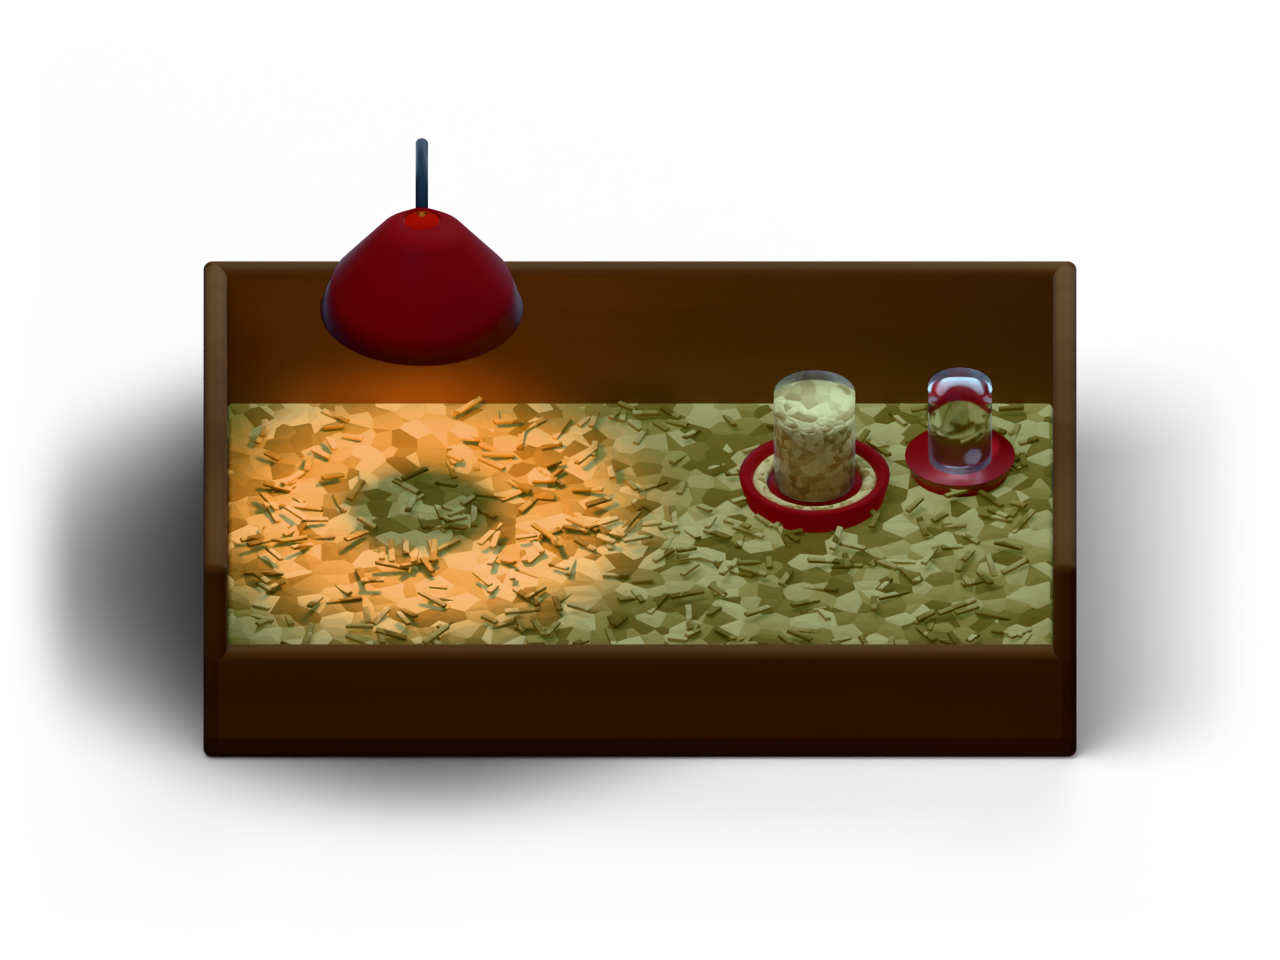
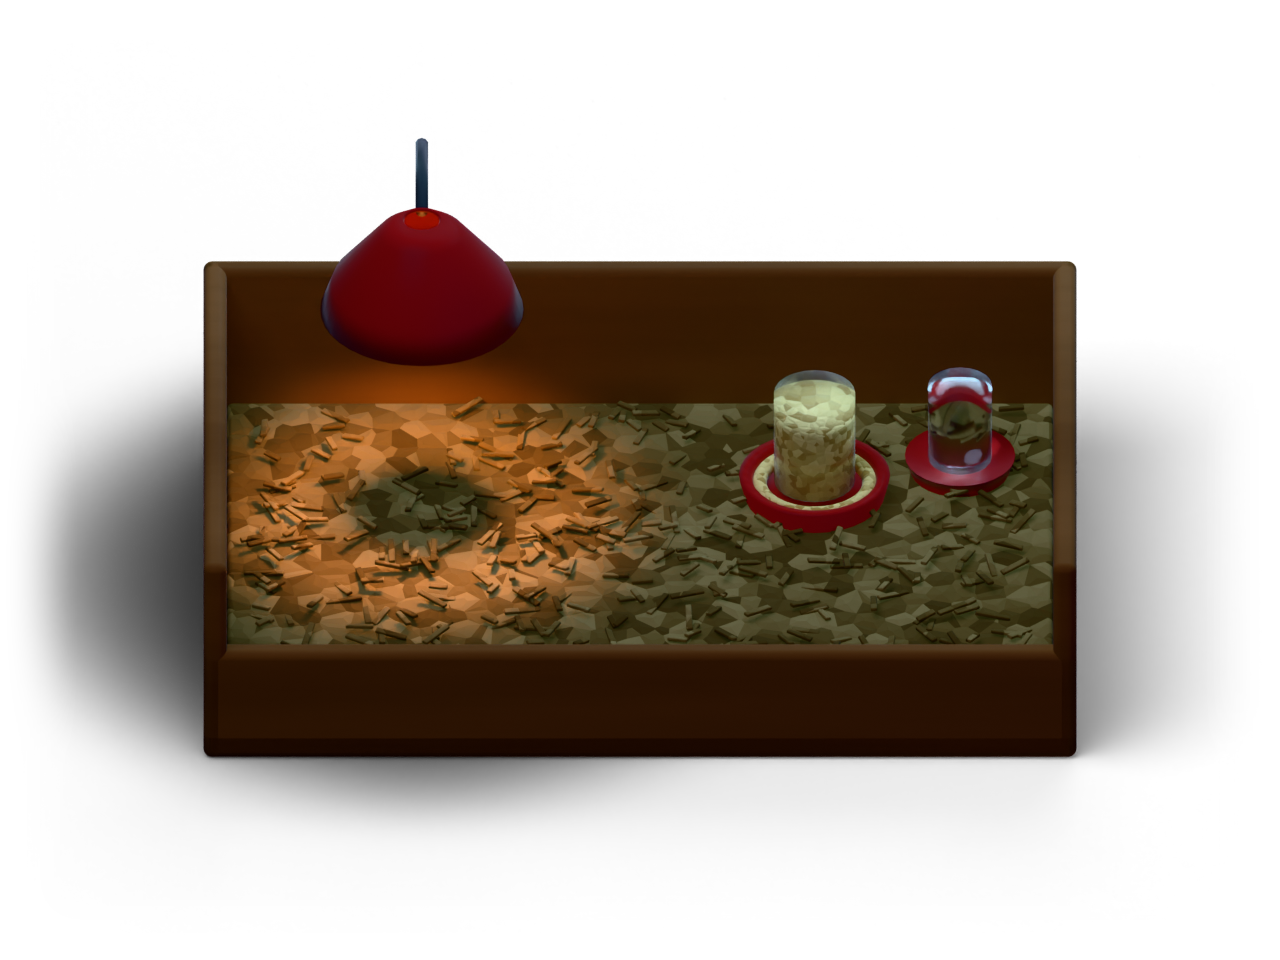
Step 5: the chick reads on its bedding, shadows under the new pets, the picker holds still
- The brooder's bedding is tan wood shavings, not the nest's golden straw
  the chick vanished into; the chick is a deeper yellow.
- A soft contact shadow under each Step 5 pet (ambient.shadow).
- The jar no longer mirrors a low sun across the frog: its day lights are
  as authored, and see-through layers crossfade by plain weight.
- The new-pet picker's line sits under its buttons with two lines' room
  (a line that grew above them moved them from under the pointer), opens
  over the memorial card, and is a click region of its own.
- Browser test for Step 5; the Phase 0 walk picks a fish from the picker.

Changed region(s): [[0.1562, 0.4062, 0.8438, 0.6875]]

diff --git a/src/ui/petPicker.ts b/src/ui/petPicker.ts
@@ -7,16 +7,22 @@
 //
 // Choosing a different species makes main.ts reload the app to mount the other habitat.
 
-import type { Species } from '../sim/types';
+import type { Rect, Species } from '../sim/types';
 import { implementedSpecies } from '../species';
 import type { UiDeps } from './types';
-import { button, centerIn, el, stopDrag } from './dom';
+import { button, centerIn, el, relRect, stopDrag } from './dom';
 import { CARD_MAX_WIDTH, CARD_MIN_WIDTH } from './feederDialog';
 
 export interface PetPickerHandle {
   open(): void;
   close(): void;
   isOpen(): boolean;
+  /**
+   * The card's rect while it is open (window-local CSS px), for the click-through window's hit
+   * regions. Unlike the feeder dialog it can be taller than a small habitat, and its Cancel is at
+   * the bottom.
+   */
+  getRects(): Rect[];
   destroy(): void;
 }
 
@@ -43,7 +49,9 @@ export function mountPetPicker(root: HTMLElement, deps: UiDeps): PetPickerHandle
   stopDrag(card);
 
   const title = el('h2', '', PICKER_TITLE);
-  const hint = el('div', 'line muted');
+  // Under the buttons, with room for two lines kept whatever it says: it changes as you point at a
+  // choice, and a line that grew above the buttons moved them out from under the pointer.
+  const hint = el('div', 'line muted hint');
   const choices = el('div', 'row');
   let open = false;
 
@@ -71,7 +79,7 @@ export function mountPetPicker(root: HTMLElement, deps: UiDeps): PetPickerHandle
 
   const actionsRow = el('div', 'row');
   actionsRow.append(button('CANCEL', () => close(), 'close'));
-  card.append(title, hint, choices, actionsRow);
+  card.append(title, choices, hint, actionsRow);
   root.append(card);
 
   function layout(): void {
@@ -86,18 +94,21 @@ export function mountPetPicker(root: HTMLElement, deps: UiDeps): PetPickerHandle
     restHint();
     card.hidden = false;
     layout();
+    deps.requestHitRegions();
   }
 
   function close(): void {
     if (!open) return;
     open = false;
     card.hidden = true;
+    deps.requestHitRegions();
   }
 
   return {
     open: openDialog,
     close,
     isOpen: () => open,
+    getRects: () => (open ? [relRect(card, root)] : []),
     destroy() {
       card.remove();
     },

diff --git a/src/render/ambient.ts b/src/render/ambient.ts
@@ -321,6 +321,8 @@ interface Bit {
 }
 
 const MOTES = 26;
+/** How dark the contact shadow under a sprite pet is at its middle, by day. */
+const PET_SHADOW = 0.34;
 const DRINK_BUBBLE_EVERY_S = 1.3;
 
 export function createAmbient(spec: AmbientSpec, textures: ReadonlyMap<string, Texture>, rng: () => number): Ambient {
@@ -419,6 +421,16 @@ export function createAmbient(spec: AmbientSpec, textures: ReadonlyMap<string, T
     sprite.alpha = 0;
     back.addChild(sprite);
     door = { sprite, t: 0 };
+  }
+
+  // -- Step 5: the pet's contact shadow
+  let petShadow: Sprite | null = null;
+  if (spec.shadow) {
+    petShadow = new Sprite({ texture: shadeTex, label: 'ambient:pet-shadow' });
+    petShadow.anchor.set(0.5);
+    petShadow.scale.set(spec.shadow.w / (8 * FX_SS), spec.shadow.h / (8 * FX_SS));
+    petShadow.alpha = 0;
+    back.addChild(petShadow);
   }
 
   // -- Step 5: the heat lamp's glow, over everything under it
@@ -593,6 +605,13 @@ export function createAmbient(spec: AmbientSpec, textures: ReadonlyMap<string, T
         const want = spec.doorGlow ? doorGlow(input.light, home) : home ? 0.42 : 0.06;
         door.t += (want - door.t) * (1 - Math.exp(-dt / 1.5));
         door.sprite.alpha = door.t;
+      }
+
+      // the pet's shadow: under its feet, fainter while it is off the ground and in the dark
+      if (petShadow && spec.shadow) {
+        const want = input.alive ? PET_SHADOW * (input.pet.act === 'hop' ? 0.35 : 1) * (1 - 0.45 * input.light.night) : 0;
+        petShadow.alpha += (want - petShadow.alpha) * (1 - Math.exp(-dt / 0.12));
+        petShadow.position.set(input.pet.x, input.pet.y + spec.shadow.below);
       }
 
       // the heat lamp

diff --git a/tests/e2e/step5.spec.ts b/tests/e2e/step5.spec.ts
@@ -11,14 +11,20 @@ interface PetDoc {
 const petOf = (page: Page): Promise<NonNullable<PetDoc['pet']>> =>
   page.evaluate(() => (JSON.parse(localStorage.getItem('webpets:pet.json') ?? '{}') as PetDoc).pet ?? {});
 
-/** Open the tray's New pet and pick one. Choosing another species reloads the app. */
+/**
+ * Open the tray's New pet and pick one. Choosing another species saves it and then reloads the app
+ * into the other habitat, so this waits for that load before it looks at anything.
+ */
 async function pick(page: Page, species: string): Promise<void> {
   await page.evaluate(() => window.__webpetsMock?.emitTray('new-pet'));
   const picker = page.locator('.pet-picker');
   await expect(picker).toBeVisible();
+  const reloaded = page.waitForEvent('load');
   await picker.locator(`.pick-${species}`).click();
-  await expect.poll(async () => (await petOf(page)).species).toBe(species);
+  await reloaded;
   await waitForBoot(page);
+  // What came back is what was chosen: the save landed before the reload.
+  expect((await petOf(page)).species).toBe(species);
 }
 
 test('New pet asks which, and offers all four', async ({ page }) => {
@@ -74,7 +80,7 @@ test('a chicken starts as a chick in the brooder, and is a hen in the coop after
   });
   await page.reload();
   await waitForBoot(page);
-  await expect.poll(async () => (await petOf(page)).habitat).toBe('coop');
+  await expect.poll(async () => (await petOf(page).catch(() => ({} as { habitat?: string }))).habitat).toBe('coop');
   expect((await petOf(page)).species).toBe('chicken');
   await expect(page.locator('#app canvas')).toHaveCount(1);
   await page.waitForTimeout(1500);

diff --git a/src/render/ambient.test.ts b/src/render/ambient.test.ts
@@ -235,7 +235,17 @@ describe('the checked-in manifest (Step 3)', () => {
         expect(a?.bottle).toBeDefined();
         expect(a?.hood).toBeDefined();
         expect(a?.critter?.kind).toBe('moth');
-      } else if (key.startsWith('frog/')) {
+      } else if (key.startsWith('frog/') || key.startsWith('chicken/')) {
+        // Step 5: a sprite pet stands on a contact shadow, under its feet and no wider than it is
+        const body = (m.sprites[key] ?? m.sprites[key.split('/')[0] as string])?.body;
+        expect(a?.shadow, key).toBeDefined();
+        expect(a?.shadow?.w).toBeGreaterThan(10);
+        expect(a?.shadow?.w).toBeLessThanOrEqual(body?.w ?? 0);
+        expect(a?.shadow?.below).toBeGreaterThan(4);
+        expect(a?.shadow?.below).toBeLessThan(body?.h ?? 0);
+      }
+      if (key.startsWith('hamster/')) continue;
+      if (key.startsWith('frog/')) {
         // Step 5: fireflies over the water, and a tongue to draw
         expect(a?.fireflies?.count).toBeGreaterThanOrEqual(5);
         expect(a?.air).toBeDefined();

diff --git a/src/render/manifest.ts b/src/render/manifest.ts
@@ -228,6 +228,11 @@ function ambientSpec(v: unknown, path: string): AmbientSpec {
     if (!Array.isArray(nest) || nest.length === 0) throw new ManifestError(`${path}.nest`, 'expected a list of points');
     out.nest = nest.map((p, i) => numPair(p, `${path}.nest[${i}]`));
   }
+  const shadow = v['shadow'];
+  if (shadow !== undefined) {
+    if (!isRecord(shadow)) throw new ManifestError(`${path}.shadow`, 'expected an object');
+    out.shadow = { w: positive(shadow['w'], `${path}.shadow.w`), h: positive(shadow['h'], `${path}.shadow.h`), below: num(shadow['below'], `${path}.shadow.below`) };
+  }
   const tongue = v['tongue'];
   if (tongue !== undefined) {
     if (!isRecord(tongue)) throw new ManifestError(`${path}.tongue`, 'expected an object');

diff --git a/src/render/types.ts b/src/render/types.ts
@@ -138,6 +138,11 @@ export interface AmbientSpec {
   doorGlow?: boolean;
   /** Where eggs sit in the nesting box, in the order they fill; at most this many are shown. */
   nest?: Array<[number, number]>;
+  /**
+   * A soft contact shadow under a sprite pet, so it stands ON the ground instead of in front of a
+   * picture of it: its size, and how far below the pet's centre its feet are, grid px.
+   */
+  shadow?: { w: number; h: number; below: number };
   /** The frog's tongue: where its mouth is from the sprite's centre, facing right, grid px. */
   tongue?: { mouth: [number, number] };
   /** The one small creature that is not a pet: a snail on the bowl's glass, a moth at the light. */

diff --git a/tests/e2e/acceptance.spec.ts b/tests/e2e/acceptance.spec.ts
@@ -164,6 +164,11 @@ test('Phase 0 acceptance walk-through', async ({ page }) => {
 
   await test.step('New pet from the memorial card', async () => {
     await page.locator('.memorial-card').getByRole('button', { name: 'NEW PET', exact: true }).click();
+    // Step 5: a new pet asks which. Another fish stays in the bowl, so nothing reloads.
+    const picker = page.locator('.pet-picker');
+    await expect(picker).toBeVisible();
+    await picker.getByRole('button', { name: 'FISH', exact: true }).click();
+    await expect(picker).toBeHidden();
     await expect(page.locator('.memorial-card')).toBeHidden();
     await hoverBowl();
     await expect(pct).toHaveText('100%');

diff --git a/src/main.ts b/src/main.ts
@@ -265,6 +265,7 @@ async function boot(platform: Platform): Promise<{ store: AppStore; scene: Habit
   const feederDialog = mountFeederDialog(ui, deps);
   const montage = mountMontage(ui, deps);
   const petPicker = mountPetPicker(ui, deps);
+  extraRects.push(petPicker);
   mountMemorial(ui, deps, petPicker);
   grip.relayout();
   // Show it off (Step F2): the last few seconds as a clip, and the pet card, saved to Downloads.

diff --git a/src/ui/styles.css b/src/ui/styles.css
@@ -545,6 +545,18 @@ body {
   margin-bottom: 6px;
 }
 
+/* The new-pet picker opens over the memorial card, and its one changing line keeps two lines' room. */
+.pet-picker {
+  z-index: 12;
+}
+.pet-picker .row:first-of-type {
+  margin-top: 0;
+}
+.pet-picker .hint {
+  min-height: 2.8em;
+  margin: 8px 0 0 0;
+}
+
 .memorial-card .rip {
   color: #c0392b;
 }

diff --git a/assets/3d/scripts/s5_finish.py b/assets/3d/scripts/s5_finish.py
@@ -120,6 +120,10 @@ def habitat(man, species, hab, src, layers, ambient, extra_geom):
     walk = g["walk"]
     amb = {"tints": tints}
     amb.update(ambient)
+    # The pet's contact shadow: as wide as its body, flat, under its soles (the rig's origin stands
+    # `feet` grid px above them).
+    body, feet = g["body"], g.pop("feet")
+    amb["shadow"] = {"w": round(body["w"] * 0.92, 1), "h": round(min(10.0, max(6.0, body["w"] * 0.3)), 1), "below": round(feet - 0.5, 1)}
     man["habitats"][f"{species}/{hab}"] = {
         "grid": [320, 240],
         "layers": order,
@@ -225,7 +229,7 @@ def main():
             bank = {"x0": round(p["bankLeft"][0], 1), "x1": round(p["bankRight"][0], 1), "y": round(p["bankMid"][1], 1)}
             w = p["water"]
             extra = {"standY": round(sites["pad"][1]), "walk": [round(min(sites["pad"][0], sites["rock"][0]) - 4), round(max(sites["pad"][0], sites["rock"][0]) + 4)],
-                     "anchor": [round(sites["pad"][0]), round(sites["pad"][1])], "sites": sites, "bank": bank, "body": body}
+                     "anchor": [round(sites["pad"][0]), round(sites["pad"][1])], "sites": sites, "bank": bank, "body": body, "feet": up}
             amb = dict(FIRE)
             amb["air"] = {"x": round(w["x"] - 6, 1), "y": round(w["y"] - 46, 1), "w": round(w["w"] + 12, 1), "h": round(w["h"] + 40, 1)}
             habitat(man, "frog", hab, os.path.join(src, hab), layers, amb, extra)
@@ -246,7 +250,7 @@ def main():
         stand = round(b["floorLeft"][1] - up, 1)
         extra = {"standY": round(stand), "walk": [round(b["floorLeft"][0]), round(b["floorRight"][0])], "anchor": [160, round(stand)],
                  "sites": {"lamp": [round(b["lamp"][0], 1), stand], "feeder": [round(b["feeder"][0], 1), stand], "water": [round(b["water"][0], 1), stand]},
-                 "foodRow": round(b["foodRow"][1], 1), "body": chick}
+                 "foodRow": round(b["foodRow"][1], 1), "body": chick, "feet": up}
         amb = {"lamp": {"at": [round(b["bulb"][0], 1), round(b["bulb"][1], 1)], "radius": 34},
                "air": {"x": 60, "y": 60, "w": 200, "h": 80},
                "critter": {"kind": "moth", "frames": [f"critters/moth/f_{i:02d}.png" for i in range(4)], "size": [17, 14.4], "fps": 22},
@@ -257,7 +261,7 @@ def main():
         stand = round(c["floorLeft"][1] - up, 1)
         extra = {"standY": round(stand), "walk": [round(c["floorLeft"][0]), round(c["floorRight"][0])], "anchor": [170, round(stand)],
                  "sites": {"door": [round(c["door"][0], 1), stand], "feeder": [round(c["feeder"][0], 1), stand], "dust": [round(c["dust"][0], 1), stand]},
-                 "foodRow": round(c["foodRow"][1], 1), "body": hen}
+                 "foodRow": round(c["foodRow"][1], 1), "body": hen, "feet": up}
         d = c["doorRect"]
         amb = {"door": {"x": d["x"], "y": d["y"], "w": d["w"], "h": d["h"]},
                "doorGlow": True,

diff --git a/assets/3d/scripts/chicken.py b/assets/3d/scripts/chicken.py
@@ -46,6 +46,12 @@ def materials():
         wb.toy_material("S5_straw", (0.36, 0.26, 0.08), roughness=0.8, sheen=0.1),
         ramp_stops=[(0.15, (0.200, 0.130, 0.035)), (0.5, (0.360, 0.255, 0.075)), (0.85, (0.520, 0.400, 0.150))],
         scale=120.0, bump_strength=0.6, bump_distance=0.003, roughness=0.8)
+    # The brooder's bedding: wood shavings, a muted tan well below the chick's yellow. Laid in the
+    # nest's golden straw the chick disappeared into it.
+    m['bedding'] = wb.voronoi_scatter(
+        wb.toy_material("S5_bedding", (0.150, 0.095, 0.040), roughness=0.85, sheen=0.05),
+        ramp_stops=[(0.15, (0.080, 0.048, 0.020)), (0.5, (0.150, 0.095, 0.040)), (0.85, (0.230, 0.155, 0.070))],
+        scale=120.0, bump_strength=0.6, bump_distance=0.003, roughness=0.85)
     m['dirt'] = wb.voronoi_scatter(
         wb.toy_material("S5_dirt", (0.09, 0.055, 0.03), roughness=0.92),
         ramp_stops=[(0.2, (0.050, 0.030, 0.016)), (0.6, (0.090, 0.056, 0.030)), (0.9, (0.130, 0.085, 0.048))],
@@ -137,8 +143,8 @@ def build_brooder(m):
         # the side walls step down to the low front
     box("S5_br_front", BR_W, t, BR_FRONT + 0.014, front, m['wood'], (0, -(hd - t / 2), GROUND + (BR_FRONT + 0.014) / 2))
     # bedding: a slab and a scatter of shavings
-    box("S5_br_bed", BR_W - 2 * t, BR_D - 2 * t, 0.014, col, m['straw'], (0, 0, BR_FLOOR - 0.007), r=0.002)
-    scatter(col, m['straw'], "S5_br_chip", 380, -hw + 0.016, hw - 0.016, -hd + 0.016, hd - 0.016, BR_FLOOR)
+    box("S5_br_bed", BR_W - 2 * t, BR_D - 2 * t, 0.014, col, m['bedding'], (0, 0, BR_FLOOR - 0.007), r=0.002)
+    scatter(col, m['bedding'], "S5_br_chip", 380, -hw + 0.016, hw - 0.016, -hd + 0.016, hd - 0.016, BR_FLOOR)
     # the heat lamp: a clamp on the back wall, an arm, a dome, a red bulb that is a real light
     lx, ly = BR_LAMP
     top = GROUND + BR_WALL

diff --git a/docs/NEEDS-SAMMY.md b/docs/NEEDS-SAMMY.md
@@ -116,6 +116,19 @@ you trust" if someone says they are hurt, never asks for personal details), sent
 the one thing the reply is about. A per-person "kid mode" (built-in lines only) would be easy to
 add once you decide.
 
+### Where the chicken's facts link to (2026-11-17, Step 5) — nothing blocked
+Each fact the pets tell has a link to the page it came from. The chicken's 184 facts are clean, but
+some of the pages they link to are not written for children:
+- Wikipedia's Chicken page (36 facts) and two RSPCA farming pages (27 facts) discuss slaughter.
+- A Scientific American article (9 facts) discusses factory farming and has a swear word in it.
+- Three more pages mention meat (the Brahma and Ayam Cemani breed pages, a university skeleton page).
+
+The facts are grouped by page in `src/species/chicken/voice/facts.ts`, so any page can be dropped
+in one cut. Dropping all of the above leaves 112, under the 120 the voice tests ask for, so they
+would need replacing rather than only removing. Your call: keep the links, drop those pages and
+have me find gentler sources, or show chicken facts without a link. It ties into the "Kids using
+it" question above.
+
 ## Open questions from the brief (not blocking; code keeps both options open)
 - How the app makes money.
 - ~~Whether food costs anything.~~ Answered 2026-10-31: food is free, no $FEED.
